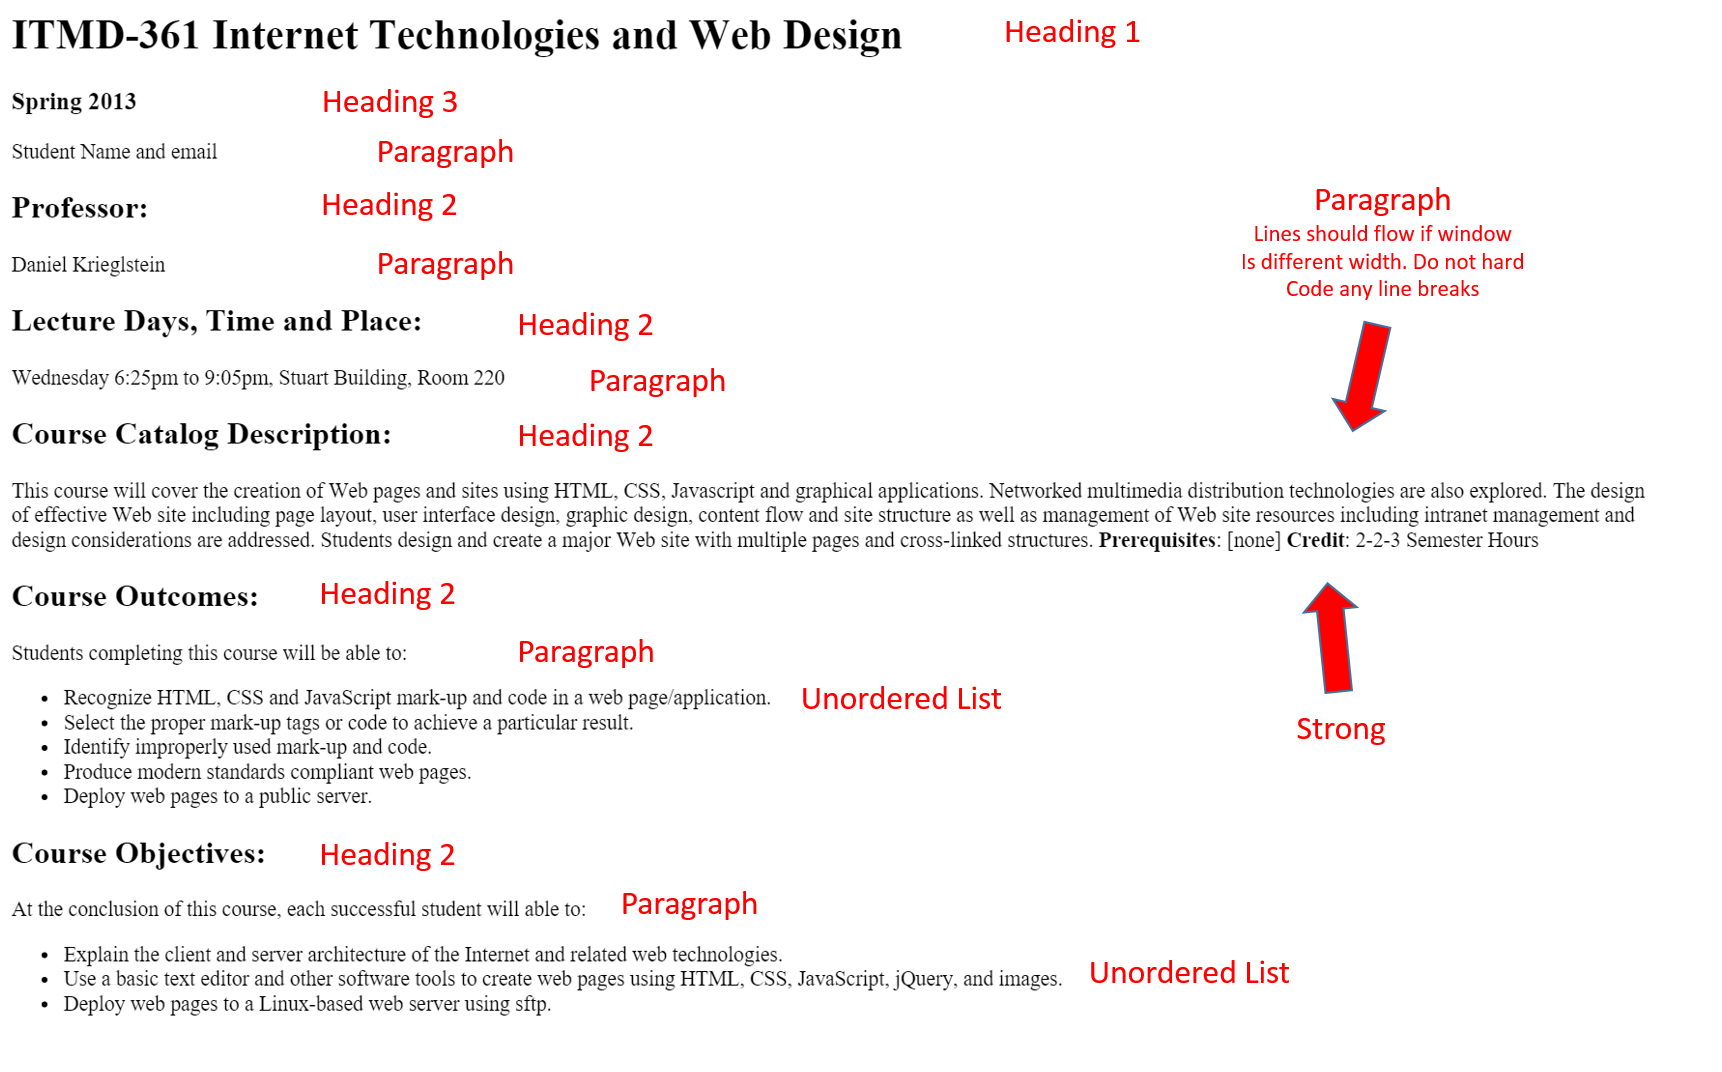
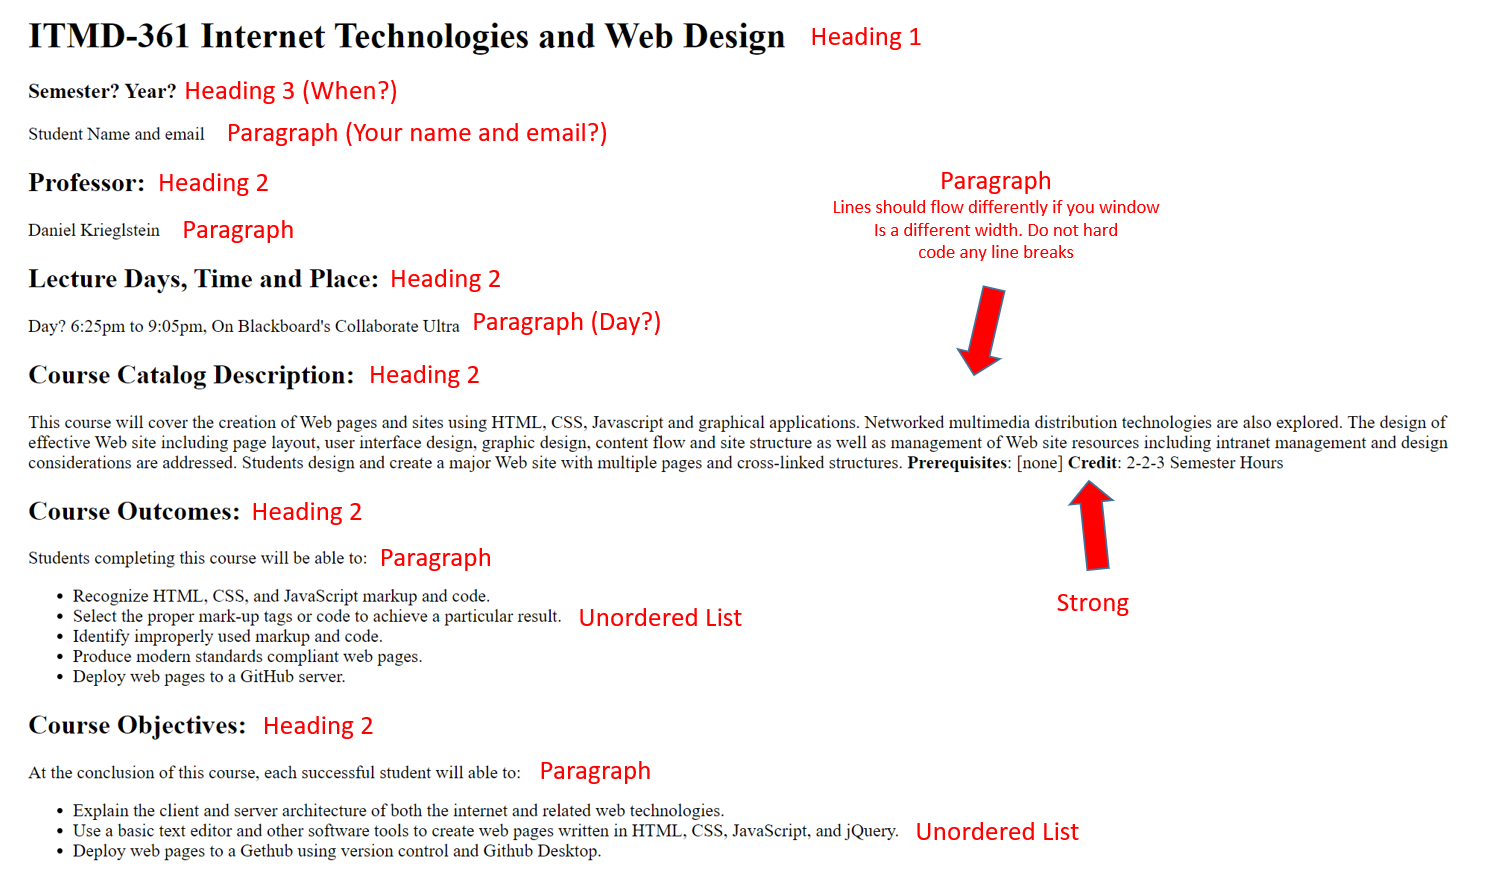
Updating lab 2 image and raw text

diff --git a/labs/lab2/lab2_final.html b/labs/lab2/lab2_final.html
@@ -1,34 +1,34 @@
 <!DOCTYPE html>
 <html lang="en">
 <head>
-	<meta charset="utf-8">
-	<title>ITMD-361 Internet Technologies and Web Design</title>
+  <meta charset="utf-8">
+  <title>ITMD-361 Internet Technologies and Web Design</title>
 </head>
 <body>
-	<h1>ITMD-361 Internet Technologies and Web Design</h1>
-	<h3>Spring 2013</h3>
-	<p>Student Name and email</p>
-	<h2>Professor:</h2>
-	<p>Daniel Krieglstein</p>
-	<h2>Lecture Days, Time and Place:</h2>
-	<p>Wednesday 6:25pm to 9:05pm, Stuart Building, Room 220</p>
-	<h2>Course Catalog Description:</h2>
-	<p>This course will cover the creation of Web pages and sites using HTML, CSS, Javascript and graphical applications. Networked multimedia distribution technologies are also explored. The design of effective Web site including page layout, user interface design, graphic design, content flow and site structure as well as management of Web site resources including intranet management and design considerations are addressed. Students design and create a major Web site with multiple pages and cross-linked structures. <strong>Prerequisites</strong>: [none] <strong>Credit</strong>: 2-2-3 Semester Hours</p>
-	<h2>Course Outcomes:</h2>
-	<p>Students completing this course will be able to:</p>
-	<ul>
-		<li>Recognize HTML, CSS and JavaScript mark-up and code in a web page/application.</li>
-		<li>Select the proper mark-up tags or code to achieve a particular result.</li>
-		<li>Identify improperly used mark-up and code.</li>
-		<li>Produce modern standards compliant web pages.</li>
-		<li>Deploy web pages to a public server.</li>
-	</ul>
-	<h2>Course Objectives:</h2>
-	<p>At the conclusion of this course, each successful student will able to:</p>
-	<ul>
-		<li>Explain the client and server architecture of the Internet and related web technologies.</li>
-		<li>Use a basic text editor and other software tools to create web pages using HTML, CSS, JavaScript, jQuery, and images.</li>
-		<li>Deploy web pages to a Linux-based web server using sftp.</li>
-	</ul>
+  <h1>ITMD-361 Internet Technologies and Web Design</h1>
+  <h3>Semester? Year?</h3>
+  <p>Student Name and email</p>
+  <h2>Professor:</h2>
+  <p>Daniel Krieglstein</p>
+  <h2>Lecture Days, Time and Place:</h2>
+  <p>Day? 6:25pm to 9:05pm, On Blackboard's Collaborate Ultra</p>
+  <h2>Course Catalog Description:</h2>
+  <p>This course will cover the creation of Web pages and sites using HTML, CSS, Javascript and graphical applications. Networked multimedia distribution technologies are also explored. The design of effective Web site including page layout, user interface design, graphic design, content flow and site structure as well as management of Web site resources including intranet management and design considerations are addressed. Students design and create a major Web site with multiple pages and cross-linked structures. <strong>Prerequisites</strong>: [none] <strong>Credit</strong>: 2-2-3 Semester Hours</p>
+  <h2>Course Outcomes:</h2>
+  <p>Students completing this course will be able to:</p>
+  <ul>
+    <li>Recognize HTML, CSS, and JavaScript markup and code.</li>
+    <li>Select the proper mark-up tags or code to achieve a particular result.</li>
+    <li>Identify improperly used markup and code.</li>
+    <li>Produce modern standards compliant web pages.</li>
+    <li>Deploy web pages to a GitHub server.</li>
+  </ul>
+  <h2>Course Objectives:</h2>
+  <p>At the conclusion of this course, each successful student will able to:</p>
+  <ul>
+    <li>Explain the client and server architecture of both the internet and related web technologies.</li>
+    <li>Use a basic text editor and other software tools to create web pages written in HTML, CSS, JavaScript, and jQuery.</li>
+    <li>Deploy web pages to a Gethub using version control and Github Desktop.</li>
+  </ul>
 </body>
 </html>

diff --git a/labs/lab2/lab2raw_text.html b/labs/lab2/lab2raw_text.html
@@ -1,23 +1,22 @@
-
 ITMD-361 Internet Technologies and Web Design
 ITMD-361 Internet Technologies and Web Design
-Spring 2013
+Semester? Year?
 Student Name and email
 Professor:
 Daniel Krieglstein
 Lecture Days, Time and Place:
-What day of the week? 6:25pm to 9:05pm, Building?, Room ???
+Day? 6:25pm to 9:05pm, On Blackboard's Collaborate Ultra
 Course Catalog Description:
-This course will cover the creation of Web pages and sites using HTML, CSS, Javascript and graphical applications. Networked multimedia distribution technologies are also explored. The design of effective Web site including page layout, user interface design, graphic design, content flow and site structure as well as management of Web site resources including intranet management and design considerations are addressed. Students design and create a major Web site with multiple pages and cross-linked structures. Prerequisites: [none]Credit: 2-2-3 Semester Hours
+This course will cover the creation of Web pages and sites using HTML, CSS, Javascript and graphical applications. Networked multimedia distribution technologies are also explored. The design of effective Web site including page layout, user interface design, graphic design, content flow and site structure as well as management of Web site resources including intranet management and design considerations are addressed. Students design and create a major Web site with multiple pages and cross-linked structures. Prerequisites: [none] Credit: 2-2-3 Semester Hours
 Course Outcomes:
 Students completing this course will be able to:
-Recognize HTML, CSS and JavaScript mark-up and code in a web page/application.
+Recognize HTML, CSS, and JavaScript markup and code.
 Select the proper mark-up tags or code to achieve a particular result.
-Identify improperly used mark-up and code.
+Identify improperly used markup and code.
 Produce modern standards compliant web pages.
-Deploy web pages to a public server.
+Deploy web pages to a GitHub server.
 Course Objectives:
 At the conclusion of this course, each successful student will able to:
-Explain the client and server architecture of the Internet and related web technologies.
-Use a basic text editor and other software tools to create web pages using HTML, CSS, JavaScript, jQuery, and images.
-Deploy web pages to a Linux-based web server using sftp.
+Explain the client and server architecture of both the internet and related web technologies.
+Use a basic text editor and other software tools to create web pages written in HTML, CSS, JavaScript, and jQuery.
+Deploy web pages to a Gethub using version control and Github Desktop.

diff --git a/README.md b/README.md
@@ -9,3 +9,4 @@ In the future, when you stumble upon this repository, the README will help refre
 2. .md files use a language called markdown; which allows you to use inline HTML or just type plain text.
 3. Here's the link to markdown syntax https://daringfireball.net/projects/markdown/syntax
 4. It is also important to use the README file by updating it with path decisions and important "about" information.
+5. README files are the only files in your repository that use capital letters.. 
